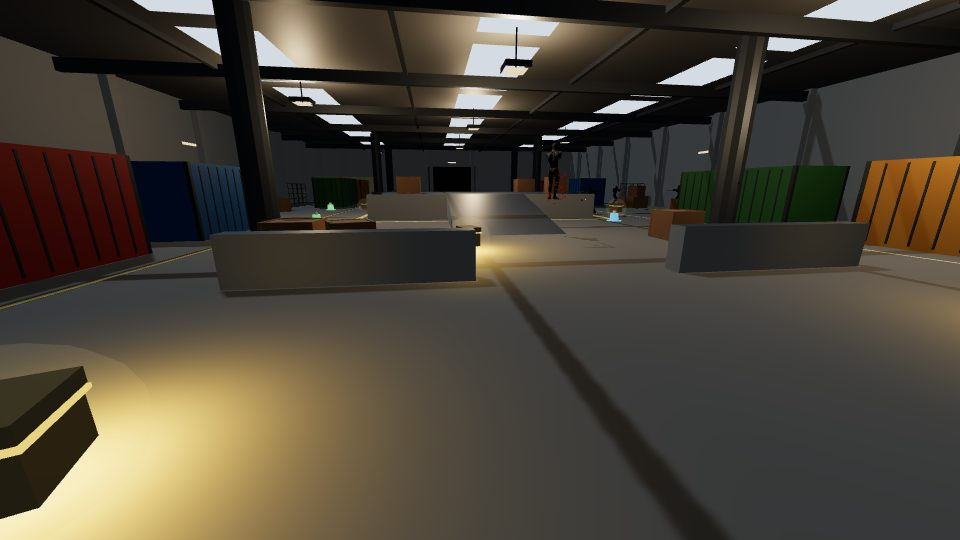
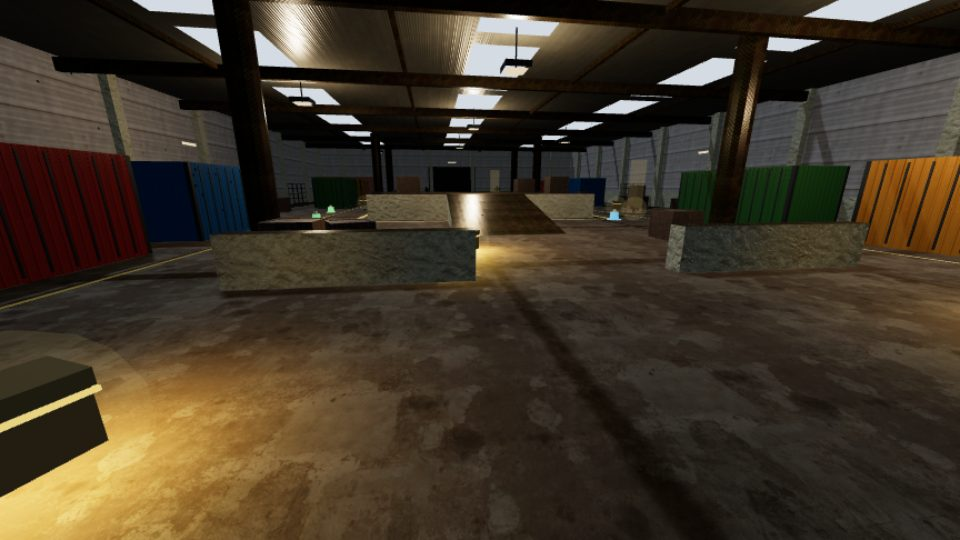
test: server rounds on DEPOT; per-map probe steps in the Blender map spec; real-textured depot thumbnail; sw cache v32

diff --git a/sw.js b/sw.js
@@ -11,7 +11,7 @@
  *  - Assets (.glb, .gltf, .bin, images) are CACHE-FIRST. They are large, immutable in
  *    practice, and they are what actually makes a cold load slow.
  */
-const CACHE = 'overrun-v31';
+const CACHE = 'overrun-v32';
 const PRECACHE = [
   './',
   './index.html', './game.js', './ui-overhaul.css',
